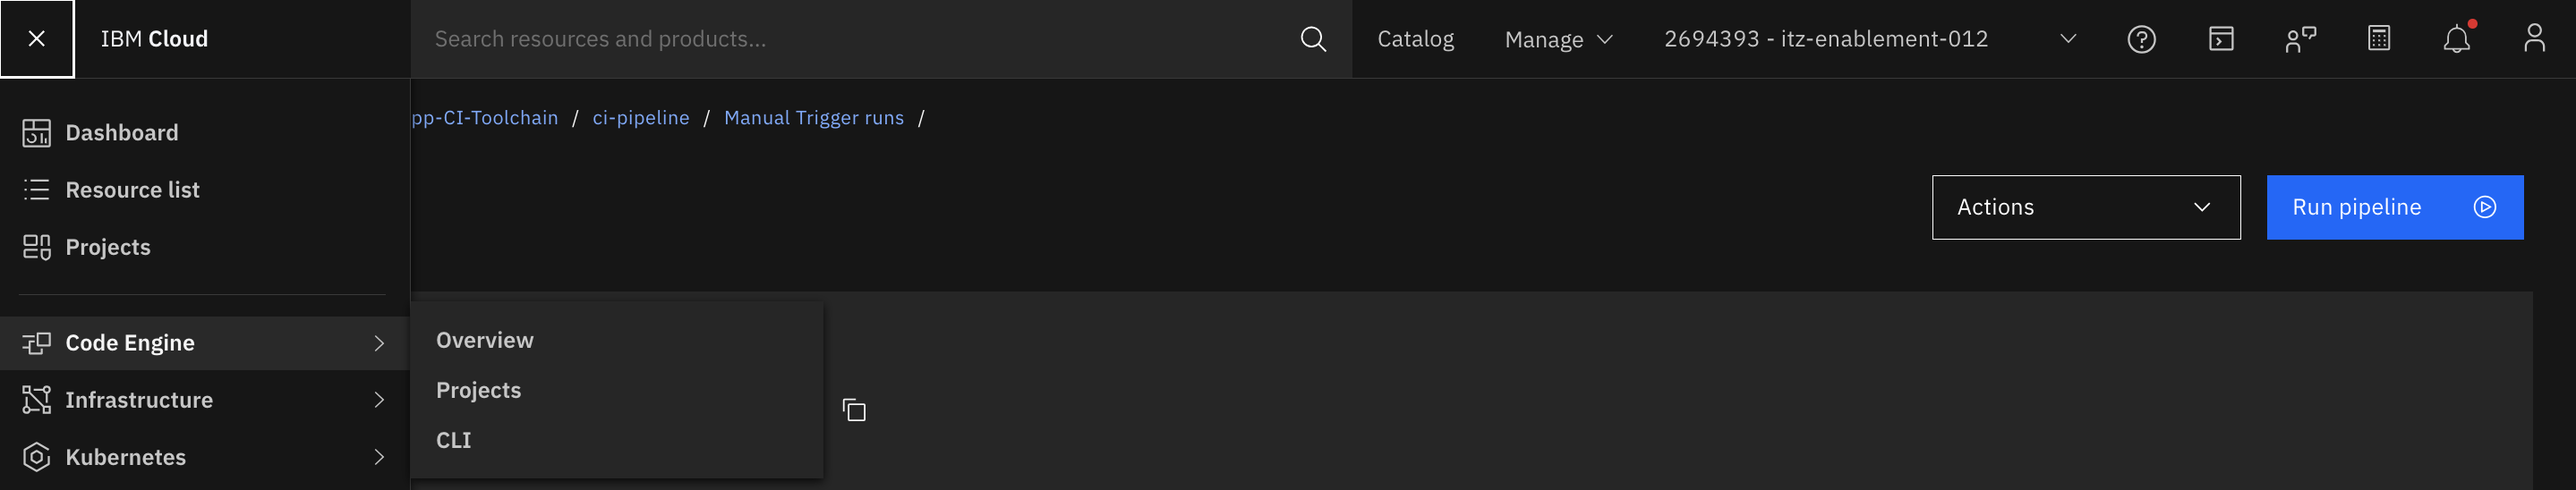
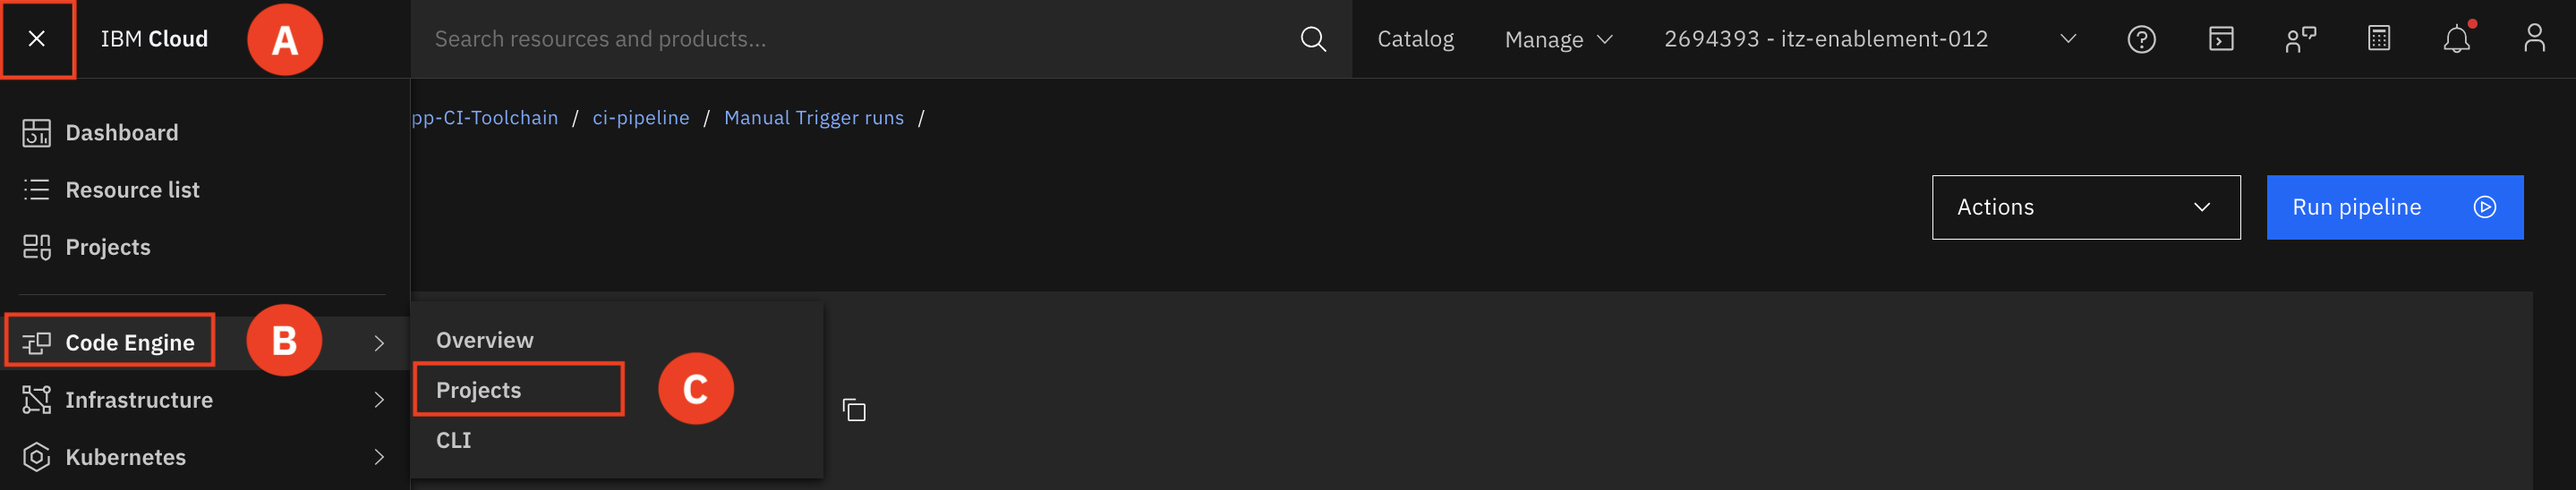
update screenshots

diff --git a/docs/lab/1_5-code-engine.md b/docs/lab/1_5-code-engine.md
@@ -3,10 +3,10 @@
 The RAG DA deploys the sample Bank Loan application on IBM Code Engine. Code Engine is a fully managed, serverless platform that enables developers to build, deploy, and scale containerized applications and batch jobs without managing the underlying infrastructure. It automatically handles tasks such as scaling, monitoring, and maintenance, allowing developers to focus on writing code. IBM Code Engine supports multiple programming languages and containerization technologies, making it versatile for various application development needs.
 
 1. Expand the **Navigation menu (A)** and select **Code Engine(B) > Projects (C)**
-![alt text](../images/1.5.1.png)
+![alt text](../images/1.5.1-n.png)
 
 2. Select your project
-![alt text](../images/1.5.2.png)
+![alt text](../images/1.5.2-n.png)
 
 3. Review the Overview dashboard 
-![alt text](../images/1.5.3.png)
+![alt text](../images/1.5.3-n.png)
